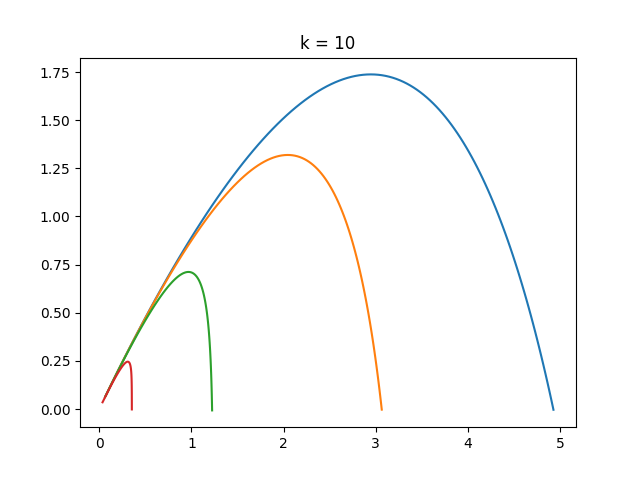
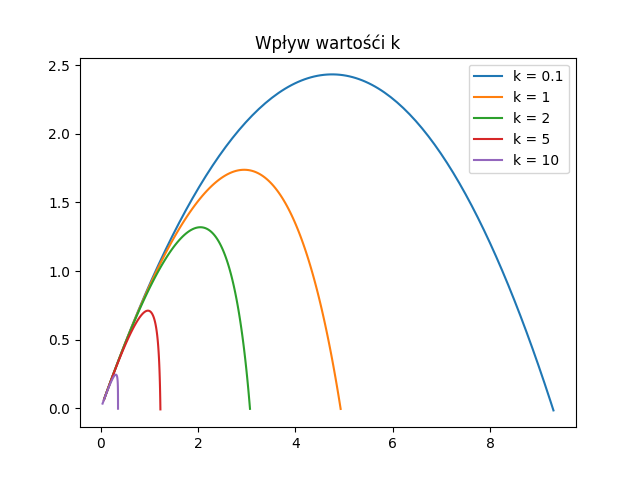
L6 init

diff --git a/Lab6/main.c b/Lab6/main.c
@@ -186,45 +186,6 @@ void startup() {
         4, 1, 0
     };
 
-    static const GLfloat vertex_pos[] = {
-        -0.25f,  0.25f, -0.25f,  
-        -0.25f, -0.25f, -0.25f,  
-        0.25f, -0.25f, -0.25f,  
-        0.25f, -0.25f, -0.25f,  
-        0.25f,  0.25f, -0.25f,  
-        -0.25f,  0.25f, -0.25f,  
-        0.25f, -0.25f, -0.25f,  
-        0.25f, -0.25f,  0.25f,  
-        0.25f,  0.25f, -0.25f,  
-        0.25f, -0.25f,  0.25f,  
-        0.25f,  0.25f,  0.25f,  
-        0.25f,  0.25f, -0.25f,  
-        0.25f, -0.25f,  0.25f,  
-        -0.25f, -0.25f,  0.25f,  
-        0.25f,  0.25f,  0.25f,  
-        -0.25f, -0.25f,  0.25f,  
-        -0.25f,  0.25f,  0.25f,  
-        0.25f,  0.25f,  0.25f,  
-        -0.25f, -0.25f,  0.25f,  
-        -0.25f, -0.25f, -0.25f,  
-        -0.25f,  0.25f,  0.25f,  
-        -0.25f, -0.25f, -0.25f,  
-        -0.25f,  0.25f, -0.25f,  
-        -0.25f,  0.25f,  0.25f,  
-        -0.25f, -0.25f,  0.25f,  
-        0.25f, -0.25f,  0.25f,  
-        0.25f, -0.25f, -0.25f,  
-        0.25f, -0.25f, -0.25f,  
-        -0.25f, -0.25f, -0.25f,  
-        -0.25f, -0.25f,  0.25f,  
-        -0.25f,  0.25f, -0.25f,  
-        0.25f,  0.25f, -0.25f,  
-        0.25f,  0.25f,  0.25f,  
-        0.25f,  0.25f,  0.25f,  
-        -0.25f,  0.25f,  0.25f,  
-        -0.25f,  0.25f, -0.25f,  
-    };
-
     static const GLfloat vertex_col[] = {
         1.0f, 1.0f, 1.0f,
         1.0f, 0.0f, 0.0f,
@@ -259,8 +220,6 @@ void startup() {
     glBufferData(GL_ELEMENT_ARRAY_BUFFER, sizeof(vertex_ind), vertex_ind, GL_STATIC_DRAW);
 
     glEnable(GL_DEPTH_TEST);
-    // glEnable(GL_CULL_FACE);
-    // glFrontFace(GL_CW);
 }
 
 void shutdown() {
@@ -273,8 +232,6 @@ void render(double currentTime) {
     float f = (float) currentTime * (float) M_PI * 0.1f;
     glm::mat4 I = glm::mat4(1.0f);
     mv_matrix = (
-        //macierz obrot glm::rotate * glm::translate od currentTime 
-        //glm::scale(I, glm::vec3(1.0f, sin(currentTime), 1.0f)) * m
         glm::rotate(I, float(currentTime), glm::vec3(0.0f, 0.0f, -1.0f)) * glm::translate(I, glm::vec3((float) cos(0.0f), (float) sin(0.0f), -5.0f)) * glm::rotate(I, float(currentTime), glm::vec3(-1.0f, 1.0f, 0.0f))
     );
 
@@ -311,7 +268,7 @@ int main(void) {
     glfwWindowHint(GLFW_CONTEXT_VERSION_MAJOR, 3);
     glfwWindowHint(GLFW_CONTEXT_VERSION_MINOR, 3);
 
-    window = glfwCreateWindow(800, 600, "Hello World", NULL, NULL);
+    window = glfwCreateWindow(800, 600, "Lab 6", NULL, NULL);
     proj_matrix = glm::perspective(glm::radians(50.0f), 800/600.0f, 0.1f, 1000.0f);
 
     if(! window) {

diff --git a/Lab6/liczenie.py b/Lab6/liczenie.py
@@ -37,12 +37,14 @@ def count_and_save(var_k):
         # print(f'{new_x} \t {new_y}')
 
 
-    plt.plot(x_tab, y_tab)
     title = 'k = ' + str(k)
-    plt.title(title)
+    plt.plot(x_tab, y_tab, label=title)
+    plt.title('Wpływ wartośći k')
+    plt.legend()
     filetitle = 'k' + str(k) + '.png'
     plt.savefig(filetitle)
 
+count_and_save(0.1)
 count_and_save(1)
 count_and_save(2)
 count_and_save(5)

diff --git a/Lab6/README.md b/Lab6/README.md
@@ -1,5 +1,14 @@
-# Lab 5
+# Laboratorium 6 - rysowanie indeksowane, metody numeryczne
 
-## Zadania:
+**Zadania do wykonania:**
 
- * [ ] rysowanie sześcianu przy pomocy glDrawElements
+ * [x] Rysowanie sześcianu przy pomocy glDrawElements
+ * [x] Ruch kuli armatniej
+
+## Wprowadzenie
+
+## Rysowanie sześcianu przy pomocy glDrawElements
+
+## Ruch kuli armatniej
+
+![pic](https://raw.githubusercontent.com/Torak28/Animacja_i_Symulacja/master/Lab6/k10.png)
